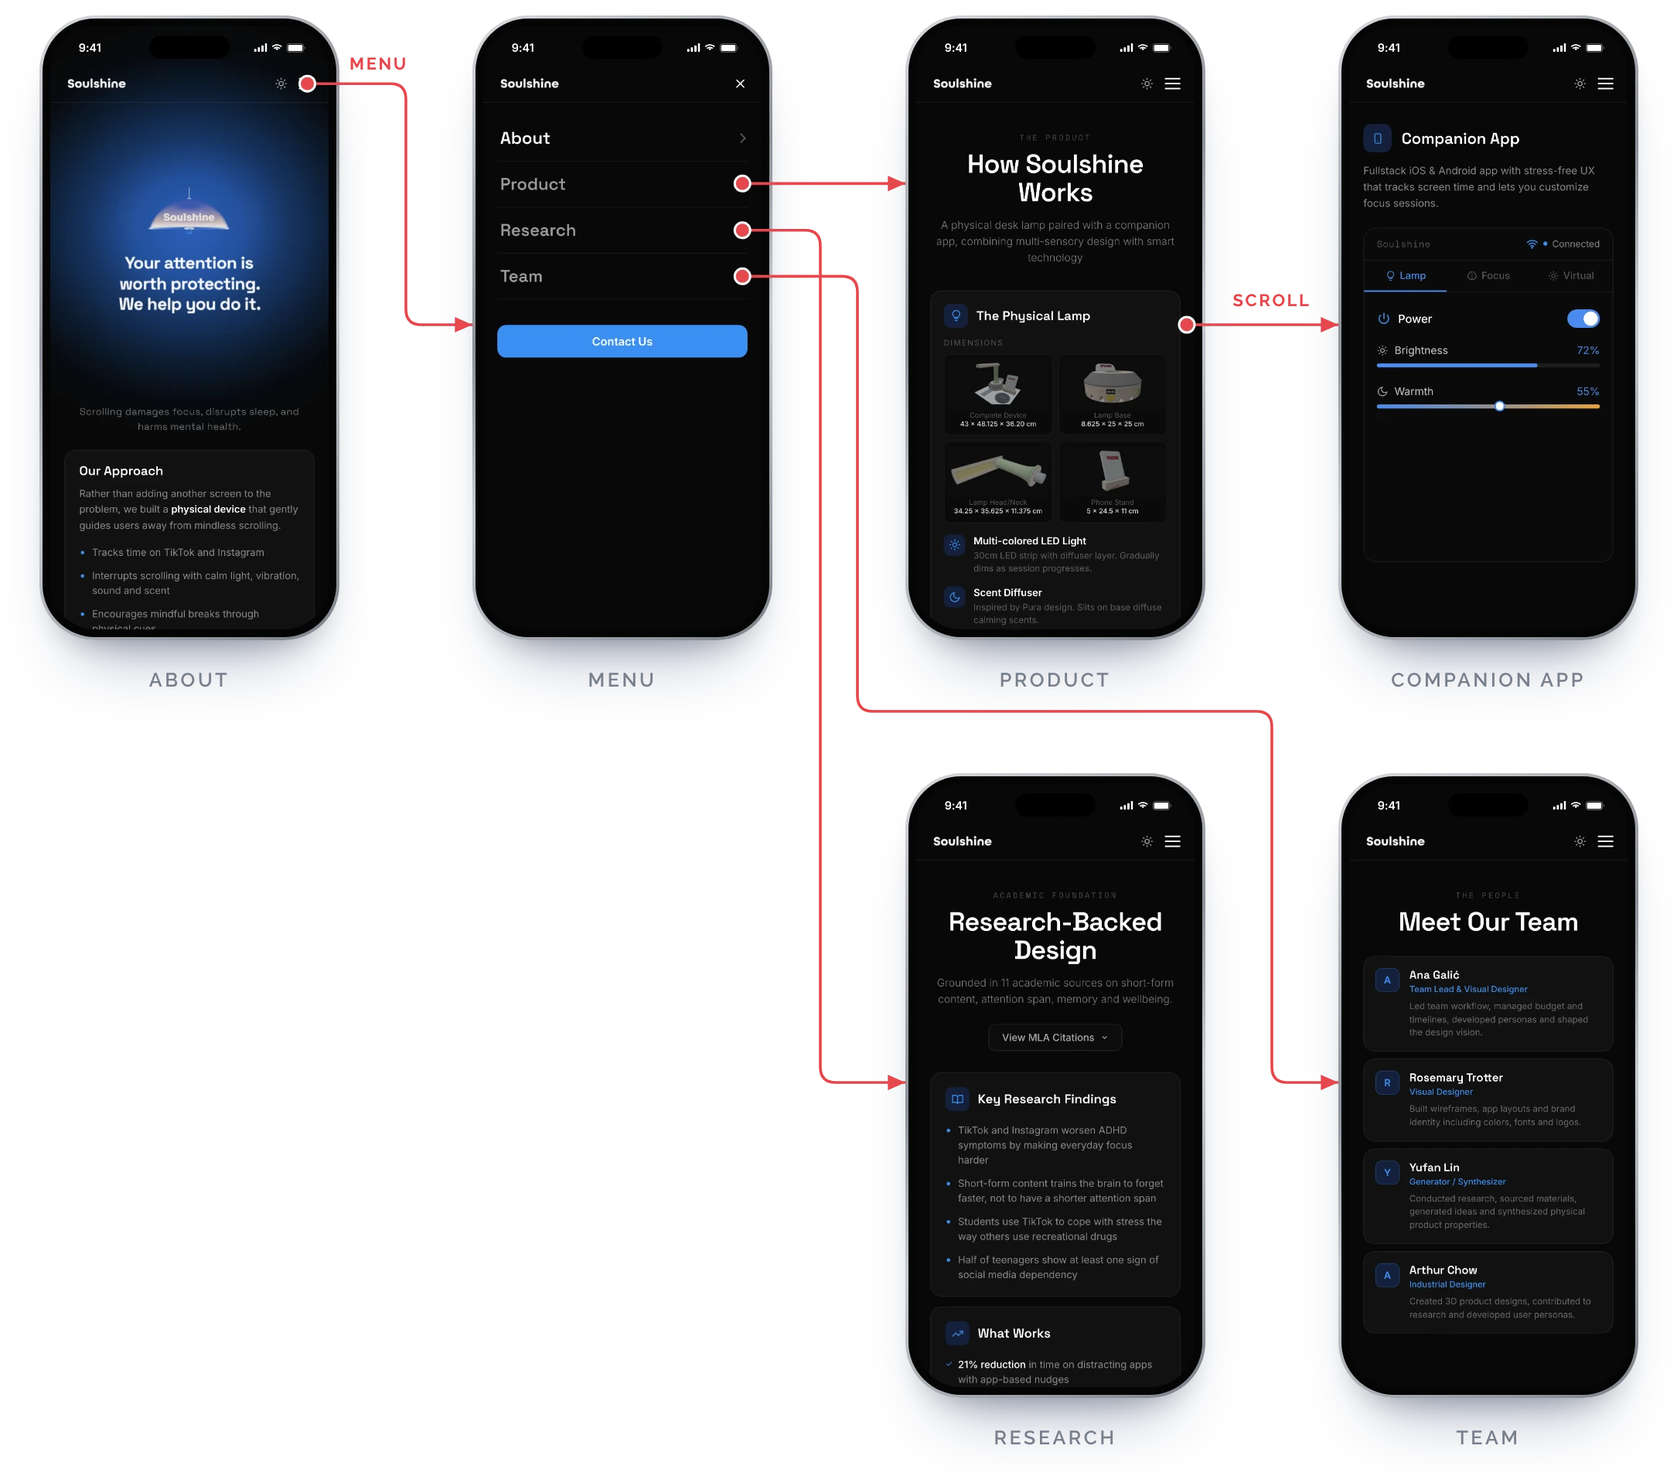
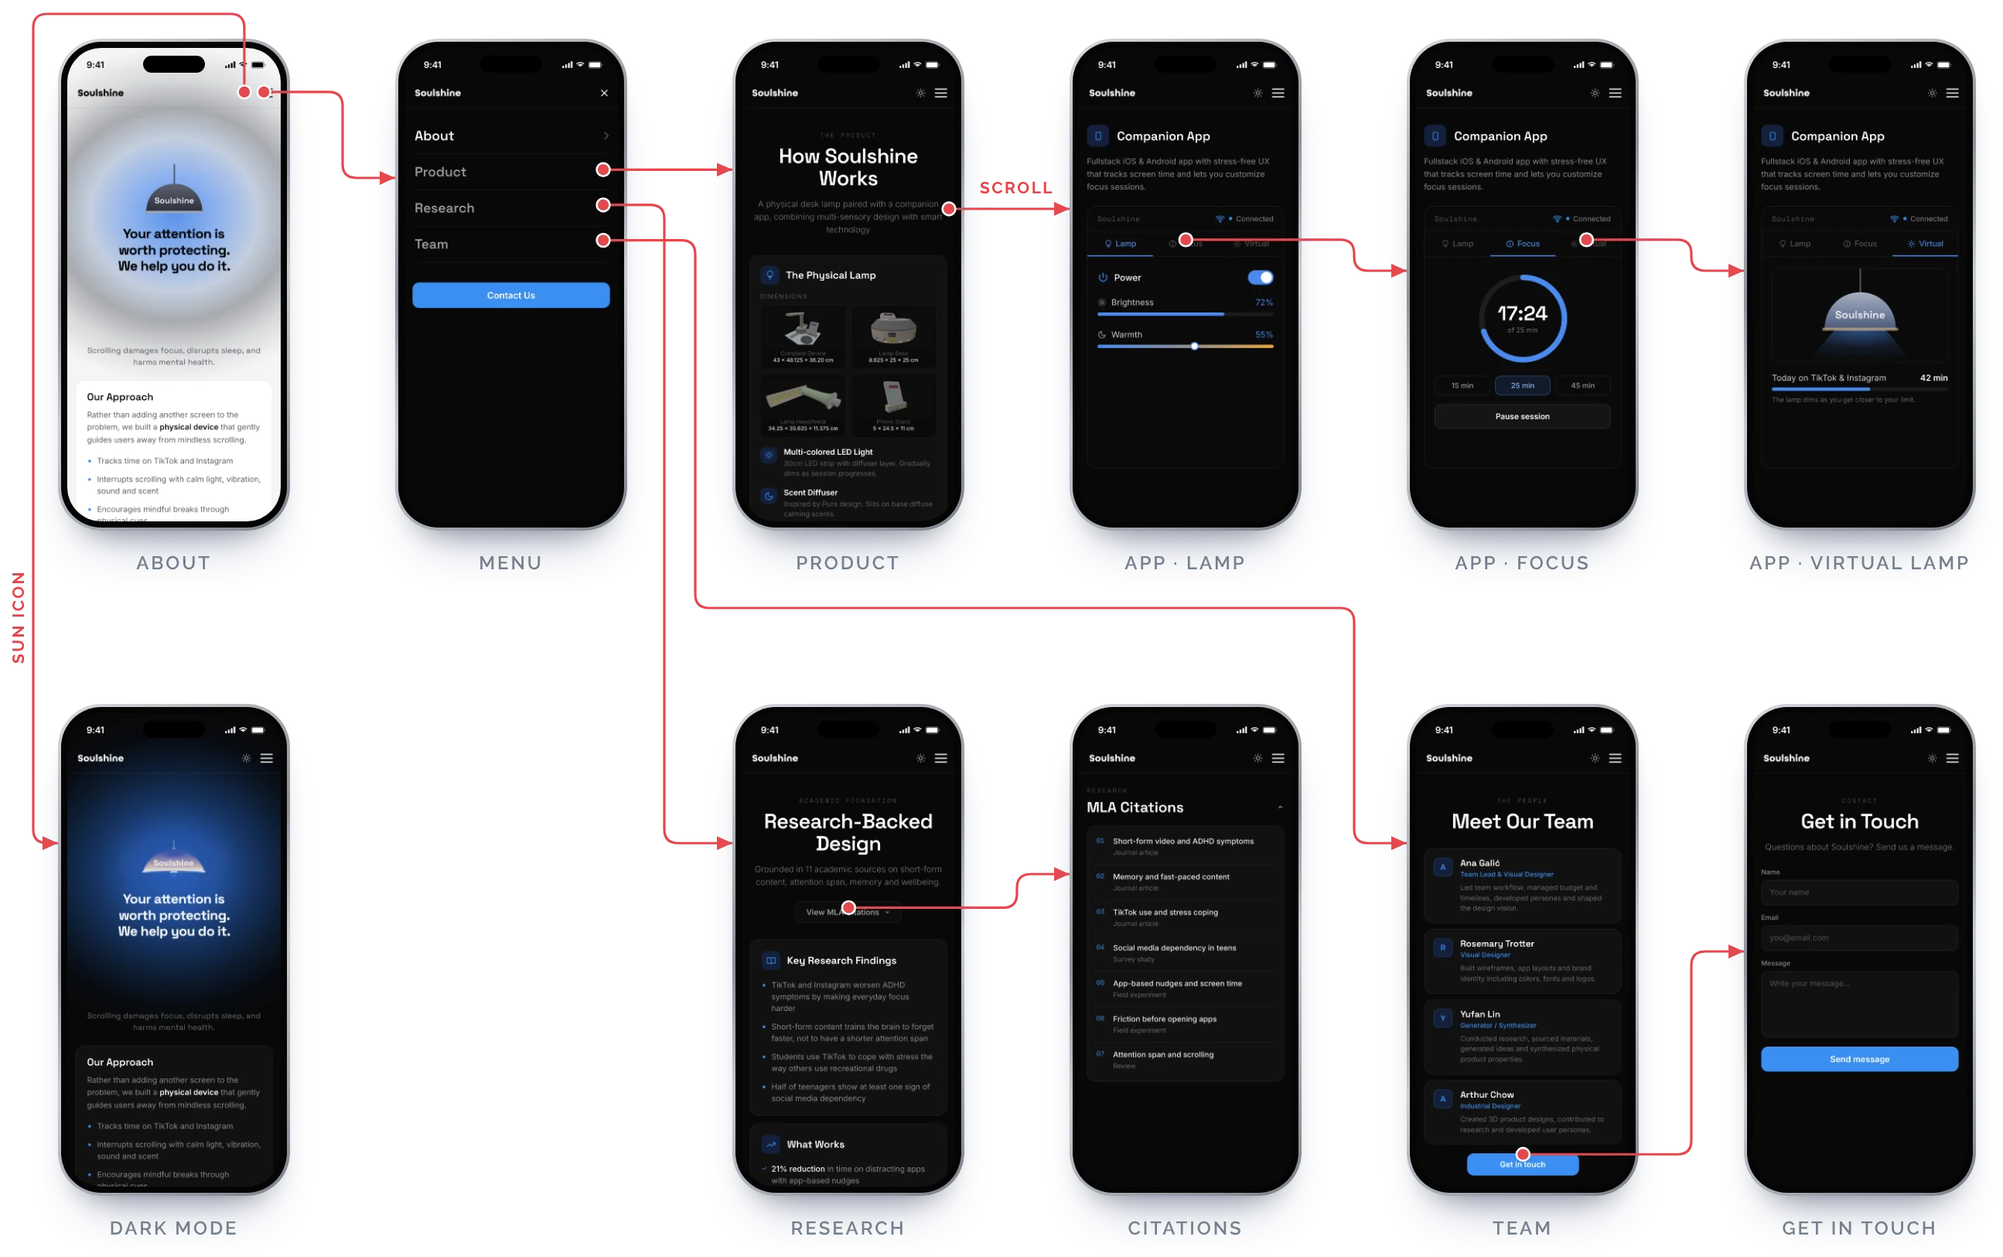
Soulshine: hi-fi website flow mirrors the full user flow; wireframes and flows side by side
Claude-Session: https://claude.ai/code/session_017Bf2Ji9pqjddmca5aaYHp1

diff --git a/index.html b/index.html
@@ -983,7 +983,7 @@ html.home-on.at-top .top::after{opacity:0}
 .ss-lead{margin-top:clamp(40px,6vw,88px)}
 .ss-intro{margin:0 0 clamp(8px,1.5vw,16px);max-width:none;font-size:clamp(16px,1.35vw,18px);line-height:1.6;color:var(--ink)}
 .ss-lead .highlights,.ss-roles .highlights{margin-top:clamp(16px,2.4vw,28px)}.ss-lead .hl,.ss-roles .hl{border-top:0;gap:8px;padding:clamp(20px,2.4vw,28px);border-radius:20px;background:linear-gradient(180deg,#FFFFFF 0%,#F6F8FC 100%);border:1px solid rgba(20,40,80,.06);box-shadow:inset 0 1px 0 #fff,0 1px 2px rgba(15,30,60,.06),0 6px 14px -4px rgba(15,30,60,.10),0 22px 44px -14px rgba(30,70,160,.22);transition:transform .4s var(--ease),box-shadow .4s var(--ease)}.ss-lead .hl:hover,.ss-roles .hl:hover{transform:translateY(-3px);box-shadow:inset 0 1px 0 #fff,0 1px 2px rgba(15,30,60,.06),0 10px 20px -6px rgba(15,30,60,.12),0 30px 56px -16px rgba(30,70,160,.28)}.ss-lead .hl .label,.ss-roles .hl .label{color:#2F6FE4;font-size:11.5px}.ss-lead .hl h3,.ss-roles .hl h3{font-family:inherit;font-size:16px;font-weight:700;line-height:1.35}.ss-lead .hl p:not(.label){font-size:14px;line-height:1.5;color:#4A5262}
-.ss-roles .hl p:not(.label){font-size:15px;line-height:1.6;color:#4A5262;margin:0}.ss-role-cards{display:grid;grid-template-columns:repeat(2,minmax(0,1fr));gap:clamp(14px,2vw,20px);align-items:stretch}@media (max-width:900px){.ss-role-cards{grid-template-columns:minmax(0,1fr)}}.ss-role-lead{display:grid!important;grid-template-columns:minmax(0,1fr) minmax(120px,38%);gap:clamp(16px,3vw,40px);align-items:center}.ss-role-text{display:flex;flex-direction:column;gap:8px}.ss-role-cards > .hl{justify-content:center}.ss-board{border:0;background:transparent;overflow:visible;position:relative}.ss-board img{object-fit:contain}.ss-board:hover img{transform:translateY(-4px) scale(1.01)}.ss-pts{list-style:none;margin:2px 0 0;padding:0;display:flex;flex-direction:column;gap:6px}.ss-pts li{position:relative;padding-left:16px;font-size:15px;line-height:1.5;color:#4A5262}.ss-pts li::before{content:"";position:absolute;left:1px;top:.62em;width:6px;height:6px;border-radius:50%;background:#2F6FE4}.ss-site-top{display:grid;grid-template-columns:minmax(0,1.7fr) minmax(0,1fr);gap:clamp(24px,4vw,64px);align-items:center}.ss-site-top .mbp{width:100%;margin:0}.ss-site-top .mbp-fig{align-items:flex-start}.ss-site-notes{display:flex;flex-direction:column;gap:12px}.ss-site-notes p:not(.label){margin:0;font-size:clamp(15px,1.2vw,17px);line-height:1.6;color:#4A5262}.ss-site-notes .label{color:#2F6FE4}@media (max-width:860px){.ss-site-top{grid-template-columns:minmax(0,1fr)}}.ss-kit{border-radius:20px}.ss-kit-row{display:grid;grid-template-columns:minmax(0,.8fr) minmax(0,1.2fr);gap:clamp(20px,3vw,40px);align-items:start}.ss-kit .swatches{grid-template-columns:repeat(4,minmax(0,1fr));gap:10px 10px}.ss-kit .swatch{gap:5px}.ss-kit .chip-color{aspect-ratio:4/3;border-radius:12px;border:1px solid rgba(15,25,45,.08);display:flex;align-items:flex-end;padding:8px 9px;box-shadow:0 6px 14px -8px rgba(15,30,60,.35)}.ss-kit .sw-hex{font-family:var(--mono);font-size:10.5px;letter-spacing:.03em;opacity:.92;font-variant-numeric:lining-nums tabular-nums;font-feature-settings:"lnum" 1,"tnum" 1}.ss-kit .sw-name{font-size:12px;font-weight:600;line-height:1.25}.ss-kit .type-grid.three{gap:10px}.ss-kit .type-card{border-radius:14px;padding:16px;gap:6px}.ss-kit .type-aa{font-size:clamp(34px,3.4vw,48px)}.ss-kit .type-name{font-size:15px}.ss-kit .type-use{font-size:10px}.ss-kit .type-sample{font-size:13px;line-height:1.35}.ss-kit .weights span{font-size:11px;padding:3px 7px}@media (max-width:1000px){.ss-kit-row{grid-template-columns:minmax(0,1fr)}}.ss-app-intro{margin:0 0 clamp(12px,2vw,20px);max-width:none;font-size:clamp(16px,1.35vw,18px);line-height:1.6}.ss-jump{display:flex;flex-wrap:wrap;gap:10px;margin-top:clamp(24px,3vw,40px)}.ss-jump button{font:inherit;font-size:13px;font-weight:600;letter-spacing:.1em;text-transform:uppercase;padding:11px 20px;border-radius:999px;border:1px solid rgba(47,111,228,.35);background:#fff;color:#2F6FE4;cursor:pointer;box-shadow:0 6px 16px -10px rgba(30,70,160,.45);transition:background .25s,color .25s,transform .25s var(--ease)}.ss-jump button:hover{background:#2F6FE4;color:#fff;transform:translateY(-2px)}.ss-jump button:focus-visible{outline:3px solid var(--ink);outline-offset:3px}#ss-web-h,#ss-brand-h,#ss-app-h{scroll-margin-top:110px}.ss-sub-h{margin-top:clamp(48px,6vw,88px)}.ss-flows{display:flex;flex-direction:column;gap:clamp(28px,4vw,52px);margin-top:clamp(28px,4vw,52px)}.ss-flow{margin:0 auto;display:flex;flex-direction:column;gap:12px;width:min(100%,820px);align-items:center;text-align:center}.ss-flow .ss-flow-btn{width:100%}.ss-flow-btn{border:0;background:transparent;overflow:visible;border-radius:0}.ss-flow-btn img{object-fit:contain}.ss-flow-btn:hover img{transform:translateY(-3px)}.mbp-fig{gap:clamp(18px,2.4vw,28px)}.mbp{width:min(100%,1000px);margin:0 auto;display:flex;flex-direction:column;align-items:center;filter:drop-shadow(0 30px 34px rgba(25,55,120,.18))}.mbp-lid{position:relative;width:82%;background:#0c0c0e;padding:1.25% 1.25% 2.1%;border-radius:clamp(10px,2.1vw,22px) clamp(10px,2.1vw,22px) 0 0;box-shadow:0 0 0 1.5px #a9adb4,0 0 0 3px #e3e5e9}.mbp-screen{position:relative;overflow:hidden;background:#000;border-radius:clamp(4px,.9vw,9px) clamp(4px,.9vw,9px) 0 0}.mbp-bar{display:block;padding-top:2.3%}.mbp-screen video{display:block;width:100%;aspect-ratio:1.78;object-fit:cover}.mbp-notch{position:absolute;top:0;left:50%;transform:translateX(-50%);width:11%;height:0;padding-top:2.3%;background:#0c0c0e;border-radius:0 0 clamp(3px,.6vw,7px) clamp(3px,.6vw,7px)}.mbp-notch::after{content:"";position:absolute;left:50%;top:38%;width:9%;aspect-ratio:1;border-radius:50%;background:#1d2433;transform:translateX(-50%)}.mbp-base{position:relative;width:100%;height:clamp(9px,2.1vw,22px);background:linear-gradient(180deg,#f7f8fa 0%,#dfe1e5 30%,#b9bdc4 70%,#8f949c 100%);border-radius:3px 3px 50% 50%/3px 3px 100% 100%}.mbp-base::before,.mbp-base::after{content:"";position:absolute;bottom:-3px;width:5%;height:4px;border-radius:4px;background:#6c7078}.mbp-base::before{left:5%}.mbp-base::after{right:5%}.mbp-lip{position:absolute;top:0;left:50%;transform:translateX(-50%);width:16%;height:42%;background:linear-gradient(180deg,#b7bbc2,#e9eaed);border-radius:0 0 clamp(4px,.8vw,9px) clamp(4px,.8vw,9px)}.ss-end{margin-top:clamp(-40px,-3vw,-16px)}.ss-roles .linkrow{margin-top:clamp(14px,2vw,20px)}@media (max-width:760px){.ss-role-lead{grid-template-columns:minmax(0,1fr)}}
+.ss-roles .hl p:not(.label){font-size:15px;line-height:1.6;color:#4A5262;margin:0}.ss-role-cards{display:grid;grid-template-columns:repeat(2,minmax(0,1fr));gap:clamp(14px,2vw,20px);align-items:stretch}@media (max-width:900px){.ss-role-cards{grid-template-columns:minmax(0,1fr)}}.ss-role-lead{display:grid!important;grid-template-columns:minmax(0,1fr) minmax(120px,38%);gap:clamp(16px,3vw,40px);align-items:center}.ss-role-text{display:flex;flex-direction:column;gap:8px}.ss-role-cards > .hl{justify-content:center}.ss-board{border:0;background:transparent;overflow:visible;position:relative}.ss-board img{object-fit:contain}.ss-board:hover img{transform:translateY(-4px) scale(1.01)}.ss-pts{list-style:none;margin:2px 0 0;padding:0;display:flex;flex-direction:column;gap:6px}.ss-pts li{position:relative;padding-left:16px;font-size:15px;line-height:1.5;color:#4A5262}.ss-pts li::before{content:"";position:absolute;left:1px;top:.62em;width:6px;height:6px;border-radius:50%;background:#2F6FE4}.ss-site-top{display:grid;grid-template-columns:minmax(0,1.7fr) minmax(0,1fr);gap:clamp(24px,4vw,64px);align-items:center}.ss-site-top .mbp{width:100%;margin:0}.ss-site-top .mbp-fig{align-items:flex-start}.ss-site-notes{display:flex;flex-direction:column;gap:12px}.ss-site-notes p:not(.label){margin:0;font-size:clamp(15px,1.2vw,17px);line-height:1.6;color:#4A5262}.ss-site-notes .label{color:#2F6FE4}@media (max-width:860px){.ss-site-top{grid-template-columns:minmax(0,1fr)}}.ss-kit{border-radius:20px}.ss-kit-row{display:grid;grid-template-columns:minmax(0,.8fr) minmax(0,1.2fr);gap:clamp(20px,3vw,40px);align-items:start}.ss-kit .swatches{grid-template-columns:repeat(4,minmax(0,1fr));gap:10px 10px}.ss-kit .swatch{gap:5px}.ss-kit .chip-color{aspect-ratio:4/3;border-radius:12px;border:1px solid rgba(15,25,45,.08);display:flex;align-items:flex-end;padding:8px 9px;box-shadow:0 6px 14px -8px rgba(15,30,60,.35)}.ss-kit .sw-hex{font-family:var(--mono);font-size:10.5px;letter-spacing:.03em;opacity:.92;font-variant-numeric:lining-nums tabular-nums;font-feature-settings:"lnum" 1,"tnum" 1}.ss-kit .sw-name{font-size:12px;font-weight:600;line-height:1.25}.ss-kit .type-grid.three{gap:10px}.ss-kit .type-card{border-radius:14px;padding:16px;gap:6px}.ss-kit .type-aa{font-size:clamp(34px,3.4vw,48px)}.ss-kit .type-name{font-size:15px}.ss-kit .type-use{font-size:10px}.ss-kit .type-sample{font-size:13px;line-height:1.35}.ss-kit .weights span{font-size:11px;padding:3px 7px}@media (max-width:1000px){.ss-kit-row{grid-template-columns:minmax(0,1fr)}}.ss-app-intro{margin:0 0 clamp(12px,2vw,20px);max-width:none;font-size:clamp(16px,1.35vw,18px);line-height:1.6}.ss-jump{display:flex;flex-wrap:wrap;gap:10px;margin-top:clamp(24px,3vw,40px)}.ss-jump button{font:inherit;font-size:13px;font-weight:600;letter-spacing:.1em;text-transform:uppercase;padding:11px 20px;border-radius:999px;border:1px solid rgba(47,111,228,.35);background:#fff;color:#2F6FE4;cursor:pointer;box-shadow:0 6px 16px -10px rgba(30,70,160,.45);transition:background .25s,color .25s,transform .25s var(--ease)}.ss-jump button:hover{background:#2F6FE4;color:#fff;transform:translateY(-2px)}.ss-jump button:focus-visible{outline:3px solid var(--ink);outline-offset:3px}#ss-web-h,#ss-brand-h,#ss-app-h{scroll-margin-top:110px}.ss-sub-h{margin-top:clamp(48px,6vw,88px)}.ss-pair{display:flex;gap:clamp(20px,3vw,40px);align-items:center;width:100%}.ss-pair .ss-flow{width:auto;min-width:0;margin:0}@media (max-width:800px){.ss-pair{flex-direction:column}.ss-pair .ss-flow{width:100%}}.ss-flow-wide{width:min(100%,1080px)!important}.ss-flows{display:flex;flex-direction:column;gap:clamp(28px,4vw,52px);margin-top:clamp(28px,4vw,52px)}.ss-flow{margin:0 auto;display:flex;flex-direction:column;gap:12px;width:min(100%,820px);align-items:center;text-align:center}.ss-flow .ss-flow-btn{width:100%}.ss-flow-btn{border:0;background:transparent;overflow:visible;border-radius:0}.ss-flow-btn img{object-fit:contain}.ss-flow-btn:hover img{transform:translateY(-3px)}.mbp-fig{gap:clamp(18px,2.4vw,28px)}.mbp{width:min(100%,1000px);margin:0 auto;display:flex;flex-direction:column;align-items:center;filter:drop-shadow(0 30px 34px rgba(25,55,120,.18))}.mbp-lid{position:relative;width:82%;background:#0c0c0e;padding:1.25% 1.25% 2.1%;border-radius:clamp(10px,2.1vw,22px) clamp(10px,2.1vw,22px) 0 0;box-shadow:0 0 0 1.5px #a9adb4,0 0 0 3px #e3e5e9}.mbp-screen{position:relative;overflow:hidden;background:#000;border-radius:clamp(4px,.9vw,9px) clamp(4px,.9vw,9px) 0 0}.mbp-bar{display:block;padding-top:2.3%}.mbp-screen video{display:block;width:100%;aspect-ratio:1.78;object-fit:cover}.mbp-notch{position:absolute;top:0;left:50%;transform:translateX(-50%);width:11%;height:0;padding-top:2.3%;background:#0c0c0e;border-radius:0 0 clamp(3px,.6vw,7px) clamp(3px,.6vw,7px)}.mbp-notch::after{content:"";position:absolute;left:50%;top:38%;width:9%;aspect-ratio:1;border-radius:50%;background:#1d2433;transform:translateX(-50%)}.mbp-base{position:relative;width:100%;height:clamp(9px,2.1vw,22px);background:linear-gradient(180deg,#f7f8fa 0%,#dfe1e5 30%,#b9bdc4 70%,#8f949c 100%);border-radius:3px 3px 50% 50%/3px 3px 100% 100%}.mbp-base::before,.mbp-base::after{content:"";position:absolute;bottom:-3px;width:5%;height:4px;border-radius:4px;background:#6c7078}.mbp-base::before{left:5%}.mbp-base::after{right:5%}.mbp-lip{position:absolute;top:0;left:50%;transform:translateX(-50%);width:16%;height:42%;background:linear-gradient(180deg,#b7bbc2,#e9eaed);border-radius:0 0 clamp(4px,.8vw,9px) clamp(4px,.8vw,9px)}.ss-end{margin-top:clamp(-40px,-3vw,-16px)}.ss-roles .linkrow{margin-top:clamp(14px,2vw,20px)}@media (max-width:760px){.ss-role-lead{grid-template-columns:minmax(0,1fr)}}
 @media (min-width:1180px){.ss-lead .highlights{gap:16px}.ss-lead .hl{padding:22px 20px;container-type:inline-size}.ss-lead .hl p:not(.label){white-space:nowrap;font-size:min(14px,calc(100cqi / 38.5))}}
 .ss-lead .stat{border-top:0;padding-top:0;gap:4px}.ss-lead .stat strong{font-size:clamp(26px,2.6vw,34px)}.ss-lead .stat span{font-size:13.5px}
 .ss-lead .stat-chart{margin-top:10px;max-width:260px;border:0;background:transparent;overflow:visible}.ss-lead .stat-chart:hover img{transform:translateY(-4px)}
@@ -1475,9 +1475,11 @@ html.home-on.at-top .top::after{opacity:0}
       <h2 class="sec-title ss-sub-h" id="ss-web-h">Website</h2>
       <p class="ss-app-intro">The five pages of the site on iPhone 17: wireframes and a user flow, then the final screens.</p>
       <div class="ss-flows" id="ss-web" style="margin-top:0">
-        <figure class="ss-flow"><button type="button" class="tx-zoom ss-flow-btn" style="--ar:2800/1080" data-full="img/soulshine/wireframes.webp?v=2" data-cap="Low-fidelity wireframes of the Soulshine site on iPhone 17: About, Product, Companion app, Research and Team" aria-label="Enlarge the wireframes"><img src="img/soulshine/wireframes.webp?v=2" width="2800" height="1080" alt="Five grey low-fidelity wireframes on iPhone 17 screens: About, Product, Companion app, Research and Team" loading="lazy"></button></figure>
-        <figure class="ss-flow"><button type="button" class="tx-zoom ss-flow-btn" style="--ar:2800/1700" data-full="img/soulshine/userflow.webp" data-cap="User flow of the Soulshine site: from About to the menu, product, companion app tabs, research, citations, team and contact, plus the light and dark mode switch" aria-label="Enlarge the user flow"><img src="img/soulshine/userflow.webp" width="2800" height="1700" alt="User flow diagram of the Soulshine site on iPhone 17 screens, connected with arrows" loading="lazy"></button></figure>
-        <figure class="ss-flow"><button type="button" class="tx-zoom ss-flow-btn" style="--ar:2169/1918" data-full="img/soulshine/web-hifi.webp?v=2" data-cap="High-fidelity user flow of the Soulshine site on iPhone 17: About, menu, Product, Companion app, Research and Team" aria-label="Enlarge"><img src="img/soulshine/web-hifi.webp?v=2" width="2169" height="1918" alt="Final Soulshine website screens on iPhone 17 connected with red arrows: About opens the menu, which leads to Product, Research and Team; Product scrolls to the Companion app" loading="lazy"></button></figure>
+        <div class="ss-pair">
+        <figure class="ss-flow" style="flex:2.593"><button type="button" class="tx-zoom ss-flow-btn" style="--ar:2800/1080" data-full="img/soulshine/wireframes.webp?v=2" data-cap="Low-fidelity wireframes of the Soulshine site on iPhone 17: About, Product, Companion app, Research and Team" aria-label="Enlarge the wireframes"><img src="img/soulshine/wireframes.webp?v=2" width="2800" height="1080" alt="Five grey low-fidelity wireframes on iPhone 17 screens: About, Product, Companion app, Research and Team" loading="lazy"></button></figure>
+        <figure class="ss-flow" style="flex:1.647"><button type="button" class="tx-zoom ss-flow-btn" style="--ar:2800/1700" data-full="img/soulshine/userflow.webp" data-cap="User flow of the Soulshine site: from About to the menu, product, companion app tabs, research, citations, team and contact, plus the light and dark mode switch" aria-label="Enlarge the user flow"><img src="img/soulshine/userflow.webp" width="2800" height="1700" alt="User flow diagram of the Soulshine site on iPhone 17 screens, connected with arrows" loading="lazy"></button></figure>
+        </div>
+        <figure class="ss-flow ss-flow-wide"><button type="button" class="tx-zoom ss-flow-btn" style="--ar:2590/1625" data-full="img/soulshine/web-hifi.webp?v=3" data-cap="High-fidelity user flow of the Soulshine site on iPhone 17: About, menu, Product, Companion app, Research and Team" aria-label="Enlarge"><img src="img/soulshine/web-hifi.webp?v=3" width="2590" height="1625" alt="Final Soulshine website screens on iPhone 17, laid out like the user flow and connected with red arrows" loading="lazy"></button></figure>
       </div>
       <h2 class="sec-title ss-sub-h" id="ss-brand-h">Brand</h2>
       <p class="ss-app-intro">Colour, typography, logo and backgrounds.</p>
@@ -1575,8 +1577,10 @@ html.home-on.at-top .top::after{opacity:0}
       <h2 class="sec-title" id="ss-app-h">Companion app</h2>
       <p class="ss-app-intro">A welcome screen that pairs the lamp, then one screen with three tabs: Lamp, Focus and Virtual.</p>
       <div class="ss-flows" style="margin-top:0">
-        <figure class="ss-flow"><button type="button" class="tx-zoom ss-flow-btn" style="--ar:2800/1080" data-full="img/soulshine/app-wireframes.webp?v=2" data-cap="Companion app wireframes on iPhone 17: Welcome, Lamp, Focus and Virtual" aria-label="Enlarge"><img src="img/soulshine/app-wireframes.webp?v=2" width="2800" height="1080" alt="Four grey low-fidelity wireframes of the Soulshine companion app on iPhone 17 screens" loading="lazy"></button></figure>
-        <figure class="ss-flow"><button type="button" class="tx-zoom ss-flow-btn" style="--ar:2800/940" data-full="img/soulshine/app-flow.webp" data-cap="Companion app user flow: pair the lamp, then move between the Lamp, Focus and Virtual tabs" aria-label="Enlarge"><img src="img/soulshine/app-flow.webp" width="2800" height="940" alt="User flow of the Soulshine companion app connected with arrows" loading="lazy"></button></figure>
+        <div class="ss-pair">
+        <figure class="ss-flow" style="flex:2.593"><button type="button" class="tx-zoom ss-flow-btn" style="--ar:2800/1080" data-full="img/soulshine/app-wireframes.webp?v=2" data-cap="Companion app wireframes on iPhone 17: Welcome, Lamp, Focus and Virtual" aria-label="Enlarge"><img src="img/soulshine/app-wireframes.webp?v=2" width="2800" height="1080" alt="Four grey low-fidelity wireframes of the Soulshine companion app on iPhone 17 screens" loading="lazy"></button></figure>
+        <figure class="ss-flow" style="flex:2.979"><button type="button" class="tx-zoom ss-flow-btn" style="--ar:2800/940" data-full="img/soulshine/app-flow.webp" data-cap="Companion app user flow: pair the lamp, then move between the Lamp, Focus and Virtual tabs" aria-label="Enlarge"><img src="img/soulshine/app-flow.webp" width="2800" height="940" alt="User flow of the Soulshine companion app connected with arrows" loading="lazy"></button></figure>
+        </div>
         <figure class="ss-flow"><button type="button" class="tx-zoom ss-flow-btn" style="--ar:2800/1520" data-full="img/soulshine/app-screens.webp" data-cap="Companion app final screens on iPhone 17: Welcome, Lamp, Focus and Virtual" aria-label="Enlarge"><img src="img/soulshine/app-screens.webp" width="2800" height="1520" alt="Four polished dark Soulshine app screens on iPhone 17: welcome, lamp controls, a focus timer and the virtual lamp" loading="lazy"></button></figure>
       </div>
     </section>
